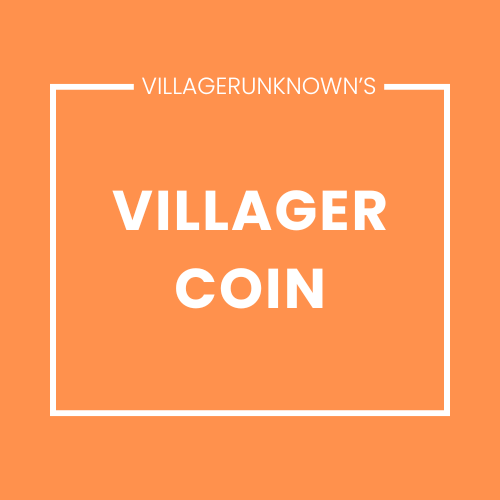
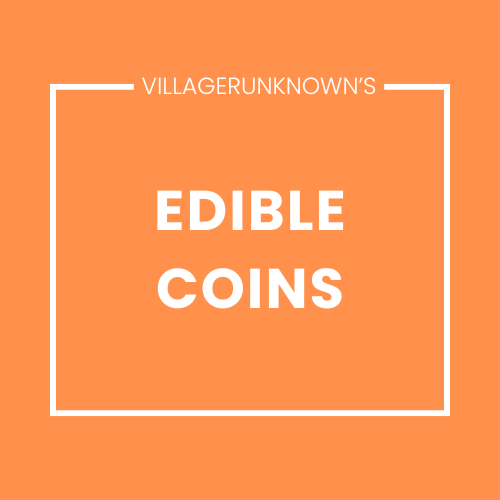
Adding copper and iron edible coins

Changed region(s): [[0.21, 0.36, 0.78, 0.48], [0.3, 0.51, 0.69, 0.63]]

diff --git a/src/main/java/me/villagerunknown/ediblecoins/feature/edibleCoinFeature.java b/src/main/java/me/villagerunknown/ediblecoins/feature/edibleCoinFeature.java
@@ -4,13 +4,14 @@ import me.villagerunknown.ediblecoins.item.EdibleVillagerCoinItem;
 import me.villagerunknown.platform.util.RegistryUtil;
 import me.villagerunknown.villagercoin.feature.coinFeature;
 import net.minecraft.item.Item;
-import net.minecraft.item.ItemStack;
 import net.minecraft.util.Rarity;
 
 import static me.villagerunknown.ediblecoins.Ediblecoins.MOD_ID;
 
 public class edibleCoinFeature {
 	
+	public static Item EDIBLE_COPPER_COIN;
+	public static Item EDIBLE_IRON_COIN;
 	public static Item EDIBLE_GOLD_COIN;
 	public static Item EDIBLE_EMERALD_COIN;
 	public static Item EDIBLE_NETHERITE_COIN;
@@ -28,7 +29,9 @@ public class edibleCoinFeature {
 	}
 	
 	static {
-		EDIBLE_GOLD_COIN = registerVillagerCoinItem( "edible_gold_" + coinFeature.COIN_STRING, Rarity.RARE, 0, 5, 0.1F );
+		EDIBLE_COPPER_COIN = registerVillagerCoinItem( "edible_copper_" + coinFeature.COIN_STRING, Rarity.COMMON, 0, 4, 0.25F );
+		EDIBLE_IRON_COIN = registerVillagerCoinItem( "edible_iron_" + coinFeature.COIN_STRING, Rarity.UNCOMMON, 0, 3, 0.2F );
+		EDIBLE_GOLD_COIN = registerVillagerCoinItem( "edible_gold_" + coinFeature.COIN_STRING, Rarity.RARE, 0, 2, 0.1F );
 		EDIBLE_EMERALD_COIN = registerVillagerCoinItem( "edible_emerald_" + coinFeature.COIN_STRING, Rarity.EPIC, 0, 1, 0.05F );
 		EDIBLE_NETHERITE_COIN = registerVillagerCoinItem( "edible_netherite_" + coinFeature.COIN_STRING, Rarity.EPIC, 0, 1, 0.005F );
 	}

diff --git a/src/main/java/me/villagerunknown/ediblecoins/feature/structuresIncludeEdibleCoinsFeature.java b/src/main/java/me/villagerunknown/ediblecoins/feature/structuresIncludeEdibleCoinsFeature.java
@@ -118,6 +118,8 @@ public class structuresIncludeEdibleCoinsFeature {
 				
 				if( COMMON_LOOT_TABLES.contains( registryKey ) || UNCOMMON_LOOT_TABLES.contains( registryKey ) ) {
 					poolBuilder
+							.with(ItemEntry.builder(edibleCoinFeature.EDIBLE_COPPER_COIN).weight(10))
+							.with(ItemEntry.builder(edibleCoinFeature.EDIBLE_IRON_COIN).weight(7))
 							.with(ItemEntry.builder(edibleCoinFeature.EDIBLE_GOLD_COIN).weight(5))
 							.rolls(UniformLootNumberProvider.create(0, 5));
 				} // if
@@ -125,13 +127,13 @@ public class structuresIncludeEdibleCoinsFeature {
 				if( RARE_LOOT_TABLES.contains( registryKey ) ) {
 					poolBuilder
 							.with(ItemEntry.builder(edibleCoinFeature.EDIBLE_EMERALD_COIN).weight(3))
-							.rolls(UniformLootNumberProvider.create(0, 3));
+							.rolls(UniformLootNumberProvider.create(0, 7));
 				}  // if
 				
 				if( EPIC_LOOT_TABLES.contains( registryKey ) ) {
 					poolBuilder
 							.with(ItemEntry.builder(edibleCoinFeature.EDIBLE_NETHERITE_COIN).weight(1))
-							.rolls(UniformLootNumberProvider.create(0, 1));
+							.rolls(UniformLootNumberProvider.create(0, 10));
 				} // if
 				
 				lootBuilder.pool(poolBuilder);

diff --git a/src/main/java/me/villagerunknown/ediblecoins/feature/mobsDropEdibleCoinsFeature.java b/src/main/java/me/villagerunknown/ediblecoins/feature/mobsDropEdibleCoinsFeature.java
@@ -24,10 +24,14 @@ public class mobsDropEdibleCoinsFeature {
 						if( entity.getType().equals( EntityType.PIGLIN ) || entity.getType().equals( EntityType.PIGLIN_BRUTE ) ) {
 							coins.put( edibleCoinFeature.EDIBLE_GOLD_COIN, 1 );
 						} else if( mobsDropCoinsFeature.COMMON_MOB_DROPS.contains( entity.getType() ) ) {
+							coins.put( edibleCoinFeature.EDIBLE_COPPER_COIN, 1 );
+							coins.put( edibleCoinFeature.EDIBLE_IRON_COIN, 1 );
 							coins.put( edibleCoinFeature.EDIBLE_GOLD_COIN, 1 );
 						} else if( mobsDropCoinsFeature.RARE_MOB_DROPS.contains( entity.getType() ) ) {
+							coins.put( edibleCoinFeature.EDIBLE_GOLD_COIN, 1 );
 							coins.put( edibleCoinFeature.EDIBLE_EMERALD_COIN, 1 );
 						} else if( mobsDropCoinsFeature.EPIC_MOB_DROPS.contains( entity.getType() ) ) {
+							coins.put( edibleCoinFeature.EDIBLE_EMERALD_COIN, 1 );
 							coins.put( edibleCoinFeature.EDIBLE_NETHERITE_COIN, 1 );
 						} // if, else if ...
 						
